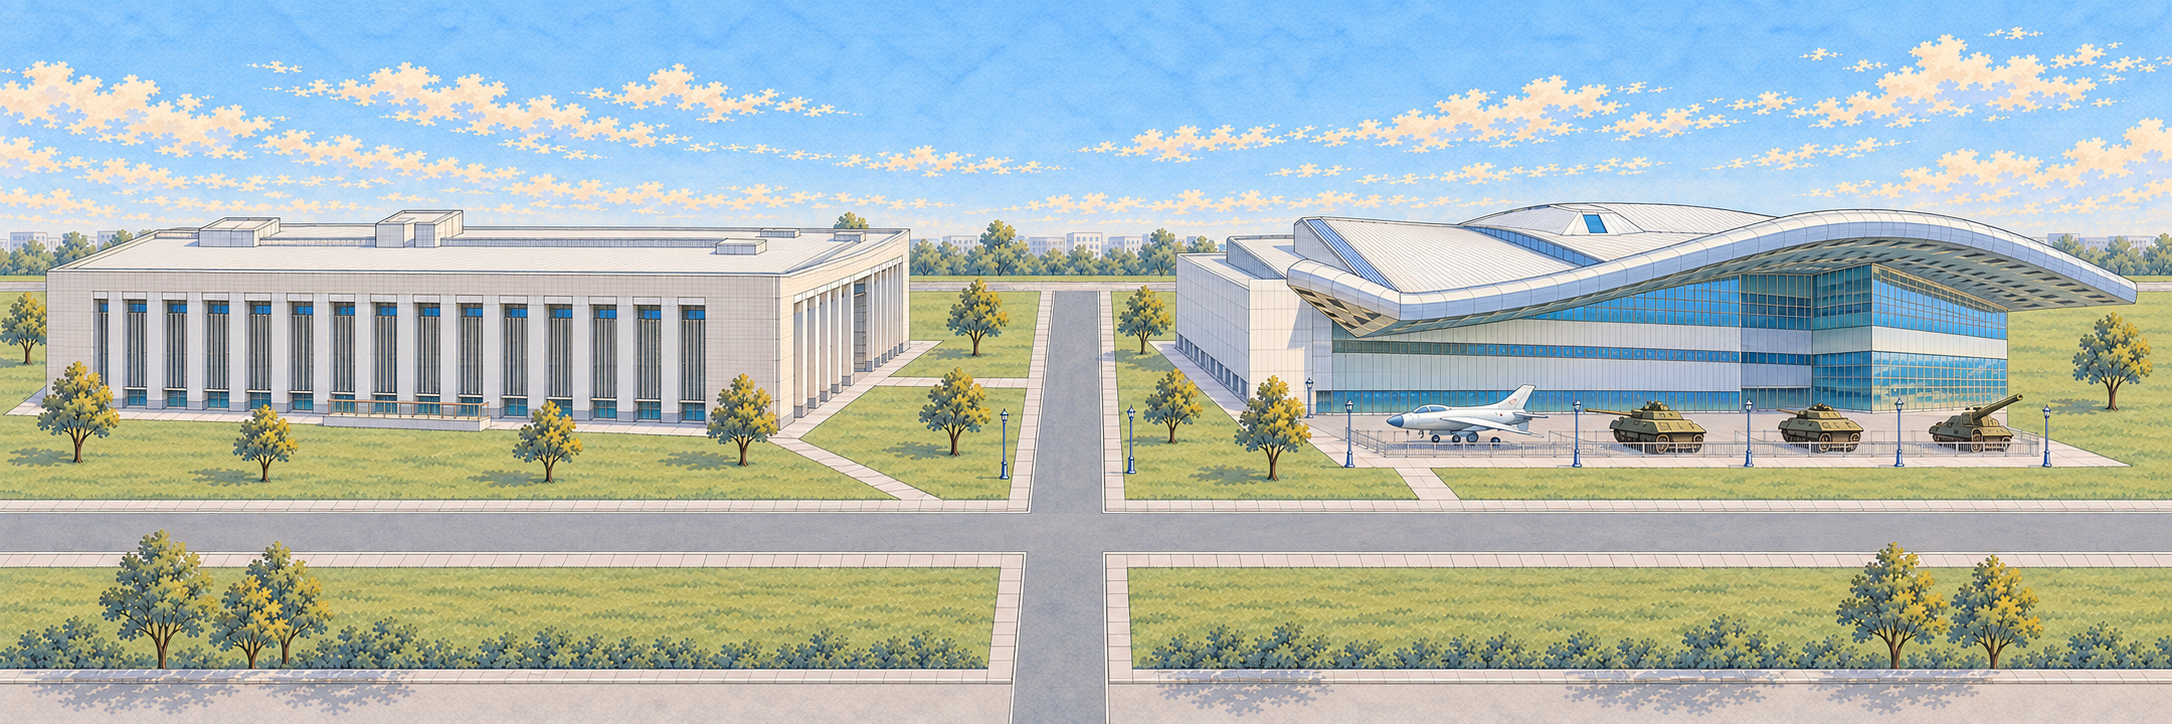
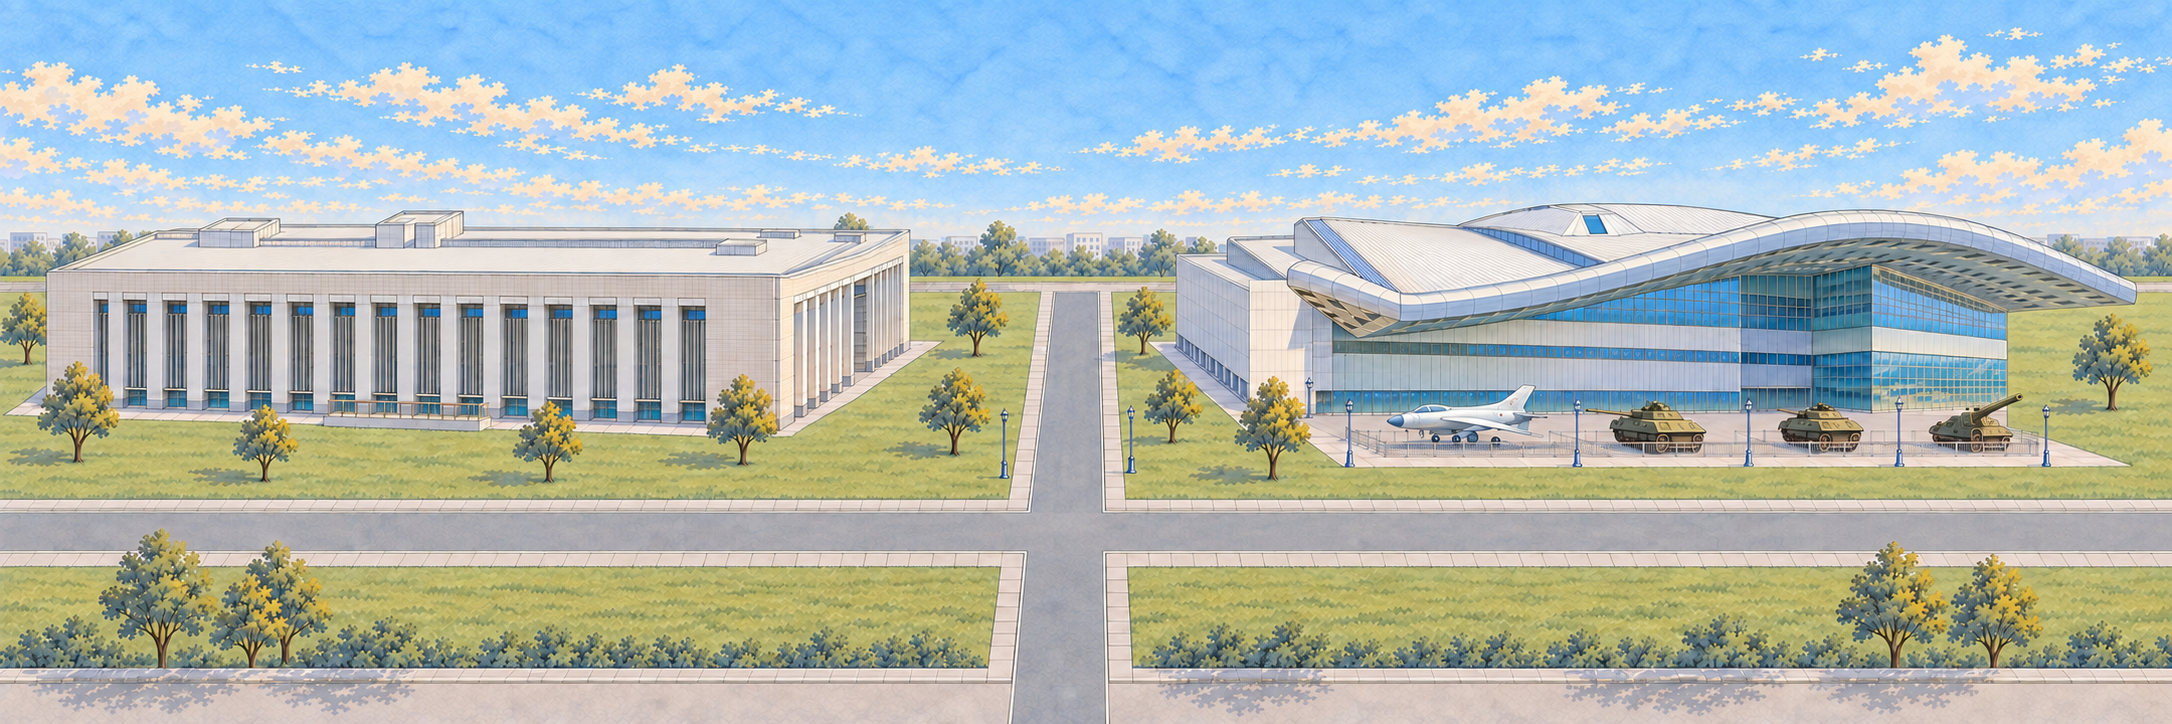
fix(visual): 删除长卷中两条错误斜路

diff --git a/docs/current-project-state.md b/docs/current-project-state.md
@@ -4,7 +4,7 @@
 
 ## 当前结论
 
-2026-09-10 v26 将末班校车段的固定满屏照片背景改为会随镜头连续展开的 3:1 长卷。长卷不使用超广角单点／两点透视，而把文博馆、道路和文化体育中心放在同一组正东—西、正南—北坐标轴的平行投影中；两栋楼没有相对旋转，同方向外墙、屋檐、路缘保持平行。中间保留窄水泥东西路与一至两车道的等宽柏油南北路，远景减楼、减树，飞机、展示广场和坦克集中在体育馆高挑檐下。背景只承担非碰撞远景，前景校车道路、角色、路灯和通关逻辑未改。运行时按镜头在 181—241 的推进量从长卷左侧平滑取景到右侧，让视点随玩家沿卷移动，不再把同一张图固定贴满屏幕。Code Analyzer 零问题、完整统一冒烟测试和长卷移动断言通过。四次当前负载下的校车段强制绘制为 95.7／67.3／46.2／85.3 FPS，均过 40；但同轮全地图门槛因北湖最低 19.7—39.6 FPS（另一次交通 35.1）未通过，当时另一个项目的常驻 Node 进程持续占约一个 CPU 核，只能记录相关性，不能把本轮写成五段性能全过。验证与画面见 `visuals/last-bus-handscroll-v26/`；目标 Windows 真人复测仍未执行。
+2026-09-10 v26 将末班校车段的固定满屏照片背景改为会随镜头连续展开的 3:1 长卷。长卷不使用超广角单点／两点透视，而把文博馆、道路和文化体育中心放在同一组正东—西、正南—北坐标轴的平行投影中；两栋楼没有相对旋转，同方向外墙、屋檐、路缘保持平行。中间保留窄水泥东西路与一至两车道的等宽柏油南北路，远景减楼、减树，飞机、展示广场和坦克集中在体育馆高挑檐下。用户在最终图上标出 x=66.2%、y=63.8% 与 x=38.9%、y=61.7% 两条不存在的斜路，现已删除并补回连续草地；y≈80.9% 的水平线只作为镜头沿卷移动的大致平行轴，不宣称其附近草地是真实空间。背景只承担非碰撞远景，前景校车道路、角色、路灯和通关逻辑未改。运行时按镜头在 181—241 的推进量从长卷左侧平滑取景到右侧，让视点随玩家沿卷移动，不再把同一张图固定贴满屏幕。Code Analyzer 零问题、完整统一冒烟测试和长卷移动断言通过。四次当前负载下的校车段强制绘制为 95.7／67.3／46.2／85.3 FPS，均过 40；但同轮全地图门槛因北湖最低 19.7—39.6 FPS（另一次交通 35.1）未通过，当时另一个项目的常驻 Node 进程持续占约一个 CPU 核，只能记录相关性，不能把本轮写成五段性能全过。验证与画面见 `visuals/last-bus-handscroll-v26/`；目标 Windows 真人复测仍未执行。
 
 2026-09-10 v25 修复操场跑道与北理桥公路在 x=112 的双人接缝坠落。此前动态碰撞面每帧重建，而校园网／成功操场机制按两只梨的平均横坐标停更；领先梨先进入公路时，平均值会在落后梨离开跑道前越过 112，导致成功页跑道承托被整段撤掉。现在以两人中较小的横坐标判断退出，只有落后梨也越过 x=112、进入连续公路后才停止维护跑道承托。`testNetworkReachability` 新增“一梨 x=113.8 已上公路、另一梨 x=110.5 尚在跑道”的直接断言和 90 帧静止回归；修复前稳定复现承托消失，修复后 Code Analyzer 零问题、完整统一冒烟测试通过，五段强制逐帧最低 63.1 FPS。目标 Windows 真人复测仍未执行。
 

diff --git a/docs/visuals/last-bus-handscroll-v26/review.md b/docs/visuals/last-bus-handscroll-v26/review.md
@@ -16,14 +16,15 @@
 - 入口：文博馆方向，镜头进入校车段时先看到长卷左侧。
 - 出口：文化体育中心终点，镜头推进后看到长卷右侧。
 - 投影：两栋楼和两条道路共用正东—西、正南—北的平行坐标轴；同方向墙面、屋檐和路缘不汇聚到消失点，两栋楼也不作相反转角。
-- 中景道路：一条一至两车道的等宽柏油南北路与一条窄水泥东西路相交；两条路只表达校园关系，不承担站立和碰撞，也不画成机场跑道尺度。
+- 中景道路：一条一至两车道的等宽柏油南北路与一条窄水泥东西路相交；两条路只表达校园关系，不承担站立和碰撞，也不画成机场跑道尺度。用户标注的 x=66.2%、y=63.8% 和 x=38.9%、y=61.7% 两条额外斜路已删除并补回草地。
+- 镜头轴：用户以 y≈80.9% 的水平线说明视点沿卷移动的大致平行线；该线附近草地只作画面留白，不作为真实校园空间判断。
 - 展示区：飞机、铺装广场和坦克集中在体育馆高挑檐下，不散落在草地中央。
 - 前景可玩层：仍由 MATLAB 图元绘制校车道路、五辆校车、路灯、角色和终点；长卷不提供碰撞。
 - 远景：删减密集楼群和树带，保留开敞草地、少量孤植树与大面积天空。
 
 ## 生成与运行时
 
[2 lines of base64/hex data omitted]
 
 运行时不再将整张图片固定映射到屏幕。镜头中心从 x=181 推进到 x=241 时，背景取景窗从长卷左侧连续移动到右侧；取景宽度为整卷的 34%，因此每一屏只看到长卷的一段。
 
@@ -32,6 +33,7 @@
 - [x] 文博馆与体育馆身份不同；
 - [x] 窄柏油南北路与窄水泥东西路同时可见，尺度不再像机场跑道；
 - [x] 两栋楼与道路共用一套平行坐标轴，无超广角中心消失点；
+- [x] 两条坐标标注的额外斜路已删除，未改动主十字路网；
 - [x] 树木与远楼数量已明显减少；
 - [x] 飞机、广场和坦克集中在体育馆挑檐下；
 - [x] 背景与前景碰撞层分离；
